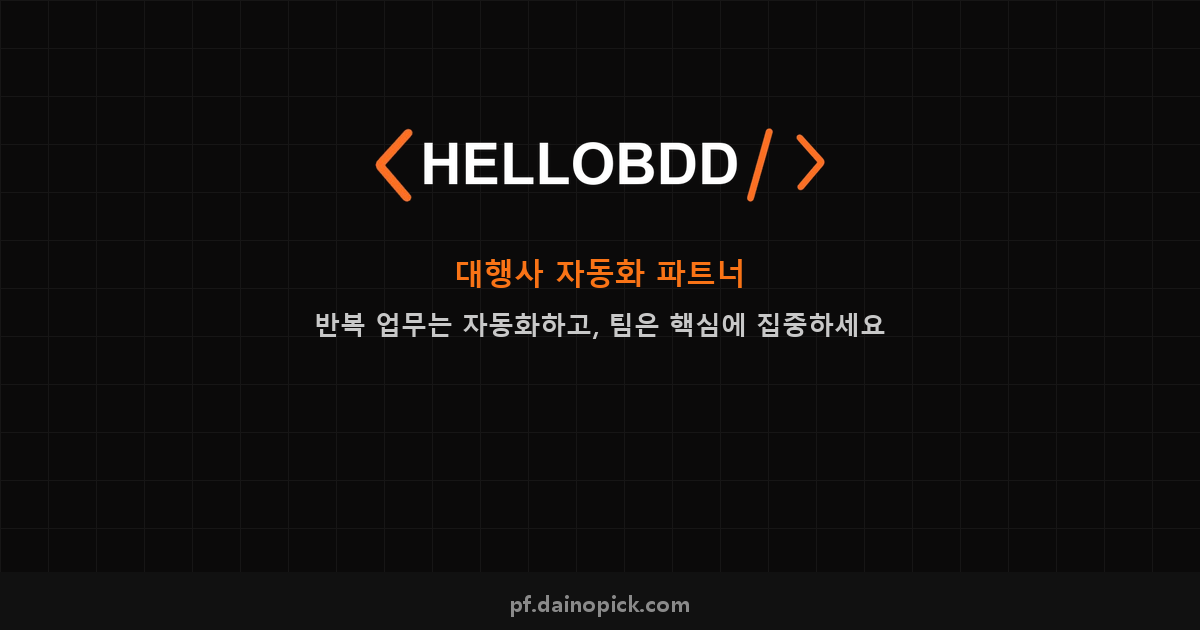
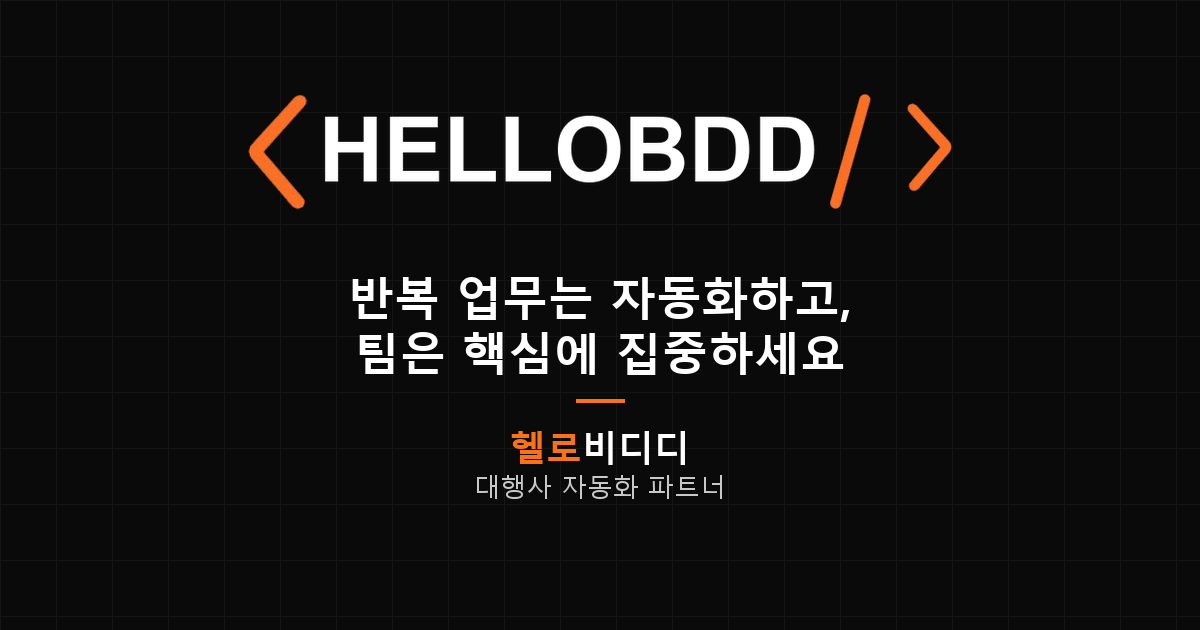
개선

diff --git a/index.html b/index.html
@@ -14,8 +14,8 @@
   <meta property="og:url" content="https://pf.dainopick.com/">
   <meta property="og:title" content="헬로비디디 | 대행사 자동화 파트너">
   <meta property="og:description" content="반복 업무는 자동화하고, 팀은 핵심에 집중하세요. 데이터 수집·순위 모니터링·AI 분석까지, 인건비를 아끼는 자동화 파트너.">
-  <meta property="og:image" content="https://pf.dainopick.com/img/og.png">
-  <meta property="og:image:secure_url" content="https://pf.dainopick.com/img/og.png">
+  <meta property="og:image" content="https://pf.dainopick.com/img/og.png?v=4">
+  <meta property="og:image:secure_url" content="https://pf.dainopick.com/img/og.png?v=4">
   <meta property="og:image:type" content="image/png">
   <meta property="og:image:width" content="1200">
   <meta property="og:image:height" content="630">
@@ -25,7 +25,7 @@
   <meta name="twitter:card" content="summary_large_image">
   <meta name="twitter:title" content="헬로비디디 | 대행사 자동화 파트너">
   <meta name="twitter:description" content="반복 업무는 자동화하고, 팀은 핵심에 집중하세요. 인건비를 아끼는 대행사 자동화 파트너.">
-  <meta name="twitter:image" content="https://pf.dainopick.com/img/og.png">
+  <meta name="twitter:image" content="https://pf.dainopick.com/img/og.png?v=4">
 
   <link rel="canonical" href="https://pf.dainopick.com/">
   <!-- Google tag (gtag.js) -->

diff --git a/programs.html b/programs.html
@@ -13,14 +13,14 @@
   <meta property="og:url" content="https://pf.dainopick.com/programs.html">
   <meta property="og:title" content="프로그램 전체 | 헬로비디디">
   <meta property="og:description" content="N사 자동화, 뷰티 플랫폼 자동화, 모니터링·감정 분석. 필요한 방향의 프로그램이 있는지 바로 확인하세요.">
-  <meta property="og:image" content="https://pf.dainopick.com/img/og.png">
+  <meta property="og:image" content="https://pf.dainopick.com/img/og.png?v=4">
   <meta property="og:image:width" content="1200">
   <meta property="og:image:height" content="630">
 
   <meta name="twitter:card" content="summary_large_image">
   <meta name="twitter:title" content="프로그램 전체 | 헬로비디디">
   <meta name="twitter:description" content="N사·뷰티·모니터링 자동화 프로그램 목록.">
-  <meta name="twitter:image" content="https://pf.dainopick.com/img/og.png">
+  <meta name="twitter:image" content="https://pf.dainopick.com/img/og.png?v=4">
 
   <link rel="canonical" href="https://pf.dainopick.com/programs.html">
   <link rel="preconnect" href="https://fonts.googleapis.com">

diff --git a/scripts_og_gen.py b/scripts_og_gen.py
@@ -6,84 +6,119 @@ from PIL import Image, ImageDraw, ImageFont
 
 ROOT = os.path.dirname(os.path.abspath(__file__))
 W, H = 1200, 630
+ORANGE = "#f97316"
+WHITE = "#ffffff"
+MUTED = "#c8c8c8"
+BG = "#0a0a0a"
 
 
-def font(size: int) -> ImageFont.FreeTypeFont | ImageFont.ImageFont:
-    candidates = [
-        r"C:\Windows\Fonts\malgunbd.ttf",
-        r"C:\Windows\Fonts\malgun.ttf",
-        r"C:\Windows\Fonts\arialbd.ttf",
-    ]
-    for path in candidates:
+def font(size: int, bold: bool = True) -> ImageFont.FreeTypeFont | ImageFont.ImageFont:
+    paths = (
+        [r"C:\Windows\Fonts\malgunbd.ttf", r"C:\Windows\Fonts\malgun.ttf"]
+        if bold
+        else [r"C:\Windows\Fonts\malgun.ttf", r"C:\Windows\Fonts\malgunbd.ttf"]
+    )
+    for path in paths:
         if os.path.exists(path):
             return ImageFont.truetype(path, size)
     return ImageFont.load_default()
 
 
+def text_wh(draw: ImageDraw.ImageDraw, text: str, fnt: ImageFont.ImageFont) -> tuple[int, int]:
+    bbox = draw.textbbox((0, 0), text, font=fnt)
+    return bbox[2] - bbox[0], bbox[3] - bbox[1]
+
+
+def draw_center(draw: ImageDraw.ImageDraw, y: int, text: str, fnt: ImageFont.ImageFont, fill: str) -> int:
+    tw, th = text_wh(draw, text, fnt)
+    draw.text(((W - tw) // 2, y), text, font=fnt, fill=fill)
+    return th
+
+
 def main() -> None:
-    img = Image.new("RGB", (W, H), "#0a0a0a")
+    img = Image.new("RGB", (W, H), BG)
     draw = ImageDraw.Draw(img)
 
-    for x in range(0, W, 48):
-        draw.line([(x, 0), (x, H)], fill="#161616", width=1)
-    for y in range(0, H, 48):
-        draw.line([(0, y), (W, y)], fill="#161616", width=1)
+    for x in range(0, W, 56):
+        draw.line([(x, 0), (x, H)], fill="#151515", width=1)
+    for y in range(0, H, 56):
+        draw.line([(0, y), (W, y)], fill="#151515", width=1)
 
-    # soft orange glow
+    # soft center glow
     glow = Image.new("RGBA", (W, H), (0, 0, 0, 0))
     gd = ImageDraw.Draw(glow)
-    for i in range(28):
-        a = max(0, 28 - i)
-        r = 120 + i * 22
+    for i in range(20):
+        a = max(0, 16 - i)
+        r = 80 + i * 18
         gd.ellipse(
-            [W // 2 - r * 2, H // 2 - int(r * 0.85), W // 2 + r * 2, H // 2 + int(r * 0.85)],
+            [W // 2 - r * 2, H // 2 - int(r * 0.7), W // 2 + r * 2, H // 2 + int(r * 0.7)],
             fill=(249, 115, 22, a),
         )
     img = Image.alpha_composite(img.convert("RGBA"), glow).convert("RGB")
     draw = ImageDraw.Draw(img)
 
+    # 1) Logo lockup
     lockup_path = os.path.join(ROOT, "img", "logo-lockup.png")
-    text_top = 220
+    logo_h = 0
+    logo_y = 78
     if os.path.exists(lockup_path):
         logo = Image.open(lockup_path).convert("RGBA")
-        lw = 460
-        ratio = lw / logo.width
-        logo = logo.resize((lw, max(1, int(logo.height * ratio))), Image.Resampling.LANCZOS)
+        target_w = 720
+        ratio = target_w / logo.width
+        logo = logo.resize((target_w, max(1, int(logo.height * ratio))), Image.Resampling.LANCZOS)
         lx = (W - logo.width) // 2
-        ly = 118
-        img.paste(logo, (lx, ly), logo)
+        img.paste(logo, (lx, logo_y), logo)
         draw = ImageDraw.Draw(img)
-        text_top = ly + logo.height + 40
+        logo_h = logo.height
     else:
-        brand = "헬로비디디"
-        bf = font(68)
-        bbox = draw.textbbox((0, 0), brand, font=bf)
-        tw = bbox[2] - bbox[0]
-        draw.text(((W - tw) // 2, 170), brand, font=bf, fill="#ffffff")
-        text_top = 270
+        draw_center(draw, logo_y, "<HELLOBDD />", font(64), WHITE)
+        logo_h = 64
 
-    sub = "대행사 자동화 파트너"
-    sf = font(30)
-    bbox = draw.textbbox((0, 0), sub, font=sf)
-    sw = bbox[2] - bbox[0]
-    draw.text(((W - sw) // 2, text_top), sub, font=sf, fill="#f97316")
+    # 2) Main copy — two lines, large
+    copy_f = font(46)
+    line1 = "반복 업무는 자동화하고,"
+    line2 = "팀은 핵심에 집중하세요"
+    copy_gap = 10
+    lh1 = text_wh(draw, line1, copy_f)[1]
+    lh2 = text_wh(draw, line2, copy_f)[1]
+    copy_block = lh1 + copy_gap + lh2
 
-    line = "반복 업무는 자동화하고, 팀은 핵심에 집중하세요"
-    tf = font(26)
-    bbox = draw.textbbox((0, 0), line, font=tf)
-    lw2 = bbox[2] - bbox[0]
-    draw.text(((W - lw2) // 2, text_top + 54), line, font=tf, fill="#c8c8c8")
+    # 3) Company name
+    company_f = font(36)
+    company = "헬로비디디"
+    ch = text_wh(draw, company, company_f)[1]
+    role_f = font(26, bold=False)
+    role = "대행사 자동화 파트너"
+    rh = text_wh(draw, role, role_f)[1]
 
-    draw.rectangle([0, H - 58, W, H], fill="#111111")
-    df = font(22)
-    dom = "pf.dainopick.com"
-    bbox = draw.textbbox((0, 0), dom, font=df)
-    dw = bbox[2] - bbox[0]
-    draw.text(((W - dw) // 2, H - 42), dom, font=df, fill="#8a8a8a")
+    gap_logo_copy = 40
+    gap_copy_company = 36
+    gap_company_role = 12
+
+    y = logo_y + logo_h + gap_logo_copy
+    draw_center(draw, y, line1, copy_f, WHITE)
+    y += lh1 + copy_gap
+    draw_center(draw, y, line2, copy_f, WHITE)
+    y += lh2 + gap_copy_company
+
+    # thin divider
+    div_w = 48
+    draw.rectangle([(W - div_w) // 2, y, (W + div_w) // 2, y + 3], fill=ORANGE)
+    y += 3 + gap_company_role + 8
+
+    # company: 헬로 orange + 비디디 white
+    prefix, rest = "헬로", "비디디"
+    pw = text_wh(draw, prefix, company_f)[0]
+    rw = text_wh(draw, rest, company_f)[0]
+    x0 = (W - pw - rw) // 2
+    draw.text((x0, y), prefix, font=company_f, fill=ORANGE)
+    draw.text((x0 + pw, y), rest, font=company_f, fill=WHITE)
+    y += ch + gap_company_role
+    draw_center(draw, y, role, role_f, MUTED)
 
     out = os.path.join(ROOT, "img", "og.png")
     img.save(out, "PNG", optimize=True)
-    print(f"saved {out} {img.size}")
+    print(f"saved {out} logo={logo_h}px copy={copy_block}px")
 
 
 if __name__ == "__main__":